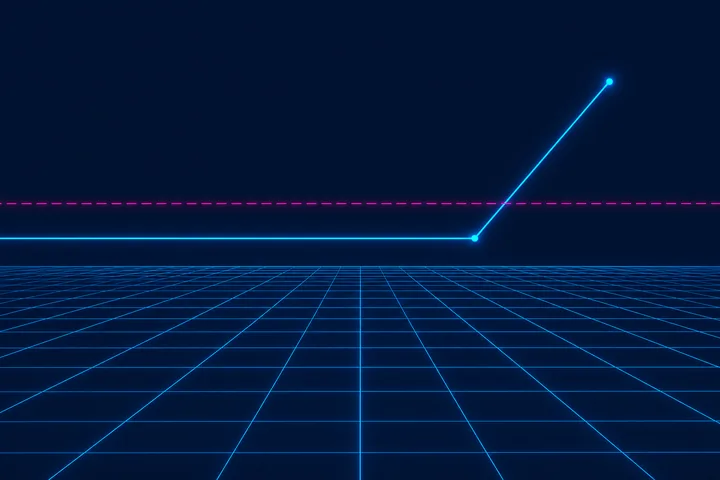
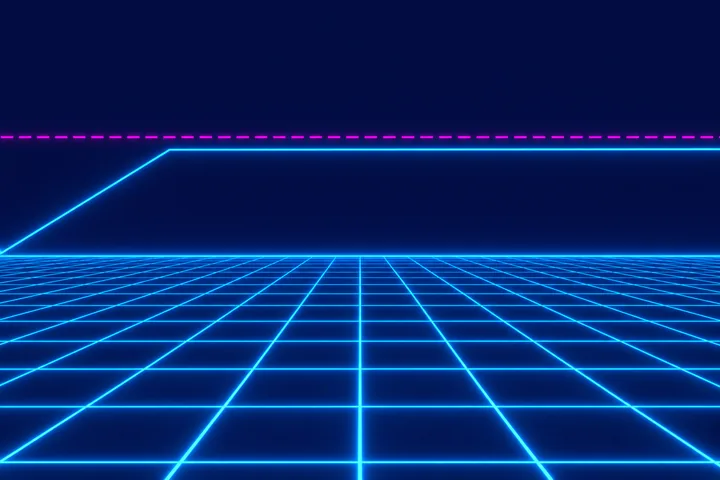
Give every service card its own schematic
The three "who this is for" graphics were generic — a funnel stood in for
"scaling up", and the plateau card showed a line breaking *through* its
ceiling, which is the opposite of being stuck. All three are redrawn to match
what their card actually says, and the five engagements get graphics for the
first time.

Same house style throughout: flat neon line-art, cyan on navy with a single
magenta accent, standing on a perspective grid. Each one is a single idea with
big shapes, because the cards crop them to a ~130px strip — the earlier busier
renders turned to noise at that size.

  scaling   rising bars           plateau   flat line under a ceiling it can't cross
  system    scatter -> lattice    advisory  a path forking, one branch lit
  audit     scan beam, one leak   build     blocks handed across a gap
  retainer  a repeating orbit     training  one node radiating to many

Decorative, so alt="" and aria-hidden — the card titles carry the meaning.
8 graphics, 202 KB total.

diff --git a/src/components/Engagements.tsx b/src/components/Engagements.tsx
@@ -1,6 +1,12 @@
 import { Button } from "@/components/ui/button";
 import { useReveal } from "@/hooks/use-reveal";
 
+import advisoryGfx from "@/assets/gfx/advisory.webp";
+import auditGfx from "@/assets/gfx/audit.webp";
+import buildGfx from "@/assets/gfx/build.webp";
+import retainerGfx from "@/assets/gfx/retainer.webp";
+import trainingGfx from "@/assets/gfx/training.webp";
+
 /**
  * The five ways to work together. Deliverables are written as things that land
  * in the client's hands — not as activities I perform.
@@ -12,6 +18,7 @@ import { useReveal } from "@/hooks/use-reveal";
 const engagements = [
   {
     kind: "Advisory",
+    gfx: advisoryGfx,
     title: "Strategy consulting",
     forWho: "Founders and marketing leads with a decision to make",
     body: "You don't need someone in the account — you need someone who has already made this mistake. Channel strategy, budget allocation, agency decisions, whether to build in-house.",
@@ -25,6 +32,7 @@ const engagements = [
   },
   {
     kind: "Fixed scope",
+    gfx: auditGfx,
     title: "Account audit",
     forWho: "Brands already spending, unsure where it leaks",
     body: "I go through the ad account, tracking setup, and funnel, then tell you what's actually costing you money — in priority order.",
@@ -38,6 +46,7 @@ const engagements = [
   },
   {
     kind: "Project",
+    gfx: buildGfx,
     title: "Build & handover",
     forWho: "Teams that need the system built once, properly",
     body: "The core engagement. I build the campaign structure, funnel, and tracking, run it until the numbers are stable, then hand it over documented so your team owns it.",
@@ -51,6 +60,7 @@ const engagements = [
   },
   {
     kind: "Ongoing",
+    gfx: retainerGfx,
     title: "Fractional growth lead",
     forWho: "In-house teams who want a sparring partner",
     body: "Monthly. I stay close to the account without taking it over — reviews, creative direction, and someone senior to argue with before you spend.",
@@ -64,6 +74,7 @@ const engagements = [
   },
   {
     kind: "Training",
+    gfx: trainingGfx,
     title: "Team training & workshops",
     forWho: "Companies, universities, and EU-funded programs",
     body: "The same material I teach on the Riga Business School MBA, adapted to your channels and tools. One-day intensives through semester-long modules.",
@@ -86,41 +97,58 @@ const EngagementCard = ({ e }: { e: Engagement }) => {
   return (
     <div
       ref={card.ref}
-      className={`rounded-lg p-5 lg:p-8 flex flex-col border ${
+      className={`rounded-lg overflow-hidden flex flex-col border ${
         e.featured ? "border-primary/70 bg-background" : "border-border lift"
       } ${e.kind === "Training" ? "md:col-span-2" : ""} ${card.className}`}
     >
-      <div className="flex items-baseline justify-between gap-4 mb-3">
-        <span className="eyebrow">{e.kind}</span>
-        {e.featured && (
-          <span className="body-clean text-xs font-semibold text-primary uppercase tracking-wider">
-            Most common
-          </span>
-        )}
+      {/* Decorative — the title carries the meaning. */}
+      <img
+        src={e.gfx}
+        alt=""
+        aria-hidden="true"
+        loading="lazy"
+        decoding="async"
+        width="720"
+        height="480"
+        className="w-full h-28 lg:h-32 object-cover border-b border-border"
+      />
+
+      <div className="p-5 lg:p-8 flex flex-col flex-1">
+        <div className="flex items-baseline justify-between gap-4 mb-3">
+          <span className="eyebrow">{e.kind}</span>
+          {e.featured && (
+            <span className="body-clean text-xs font-semibold text-primary uppercase tracking-wider">
+              Most common
+            </span>
+          )}
+        </div>
+
+        <h3 className="heading-elegant text-2xl lg:text-3xl mb-2">{e.title}</h3>
+        <p className="body-clean text-sm text-primary/90 mb-4">{e.forWho}</p>
+        <p className="body-clean text-muted-foreground text-base lg:text-lg leading-relaxed mb-6">
+          {e.body}
+        </p>
+
+        <ul className="space-y-2.5 mb-6">
+          {e.deliverables.map((d) => (
+            <li key={d} className="flex gap-3 items-start">
+              <span
+                className="text-primary mt-1.5 flex-shrink-0"
+                aria-hidden="true"
+              >
+                —
+              </span>
+              <span className="body-clean text-base text-muted-foreground leading-relaxed">
+                {d}
+              </span>
+            </li>
+          ))}
+        </ul>
+
+        <p className="body-clean text-sm text-muted-foreground mt-auto pt-4 border-t border-border">
+          {e.price}
+        </p>
       </div>
-
-      <h3 className="heading-elegant text-2xl lg:text-3xl mb-2">{e.title}</h3>
-      <p className="body-clean text-sm text-primary/90 mb-4">{e.forWho}</p>
-      <p className="body-clean text-muted-foreground text-base lg:text-lg leading-relaxed mb-6">
-        {e.body}
-      </p>
-
-      <ul className="space-y-2.5 mb-6">
-        {e.deliverables.map((d) => (
-          <li key={d} className="flex gap-3 items-start">
-            <span className="text-primary mt-1.5 flex-shrink-0" aria-hidden="true">
-              —
-            </span>
-            <span className="body-clean text-base text-muted-foreground leading-relaxed">
-              {d}
-            </span>
-          </li>
-        ))}
-      </ul>
-
-      <p className="body-clean text-sm text-muted-foreground mt-auto pt-4 border-t border-border">
-        {e.price}
-      </p>
     </div>
   );
 };
@@ -140,8 +168,8 @@ const Engagements = () => {
           Five ways to work together.
         </h2>
         <p className="body-clean text-muted-foreground text-lg lg:text-xl max-w-2xl mb-8 lg:mb-12">
-          Every one of them ends with your team able to run the thing themselves. That's
-          the point, not an upsell I'm withholding.
+          Every one of them ends with your team able to run the thing
+          themselves. That's the point, not an upsell I'm withholding.
         </p>
 
         <div className="grid md:grid-cols-2 gap-4 lg:gap-6">
@@ -154,7 +182,9 @@ const Engagements = () => {
           <Button
             size="lg"
             onClick={() =>
-              document.getElementById("contact")?.scrollIntoView({ behavior: "smooth" })
+              document
+                .getElementById("contact")
+                ?.scrollIntoView({ behavior: "smooth" })
             }
             className="bg-primary text-background hover:bg-primary/90 px-8 py-6 rounded-md font-bold text-sm lg:text-base uppercase tracking-wider"
           >

diff --git a/src/components/WhoFor.tsx b/src/components/WhoFor.tsx
@@ -76,8 +76,8 @@ const WhoFor = () => {
           Three situations I'm actually useful in.
         </h2>
         <p className="body-clean text-muted-foreground text-lg lg:text-xl max-w-2xl mb-8 lg:mb-12">
-          If none of these sound like you, say so in the form anyway — I'll tell you
-          straight if it isn't a fit.
+          If none of these sound like you, say so in the form anyway — I'll tell
+          you straight if it isn't a fit.
         </p>
 
         <div className="grid md:grid-cols-3 gap-4 lg:gap-6">
